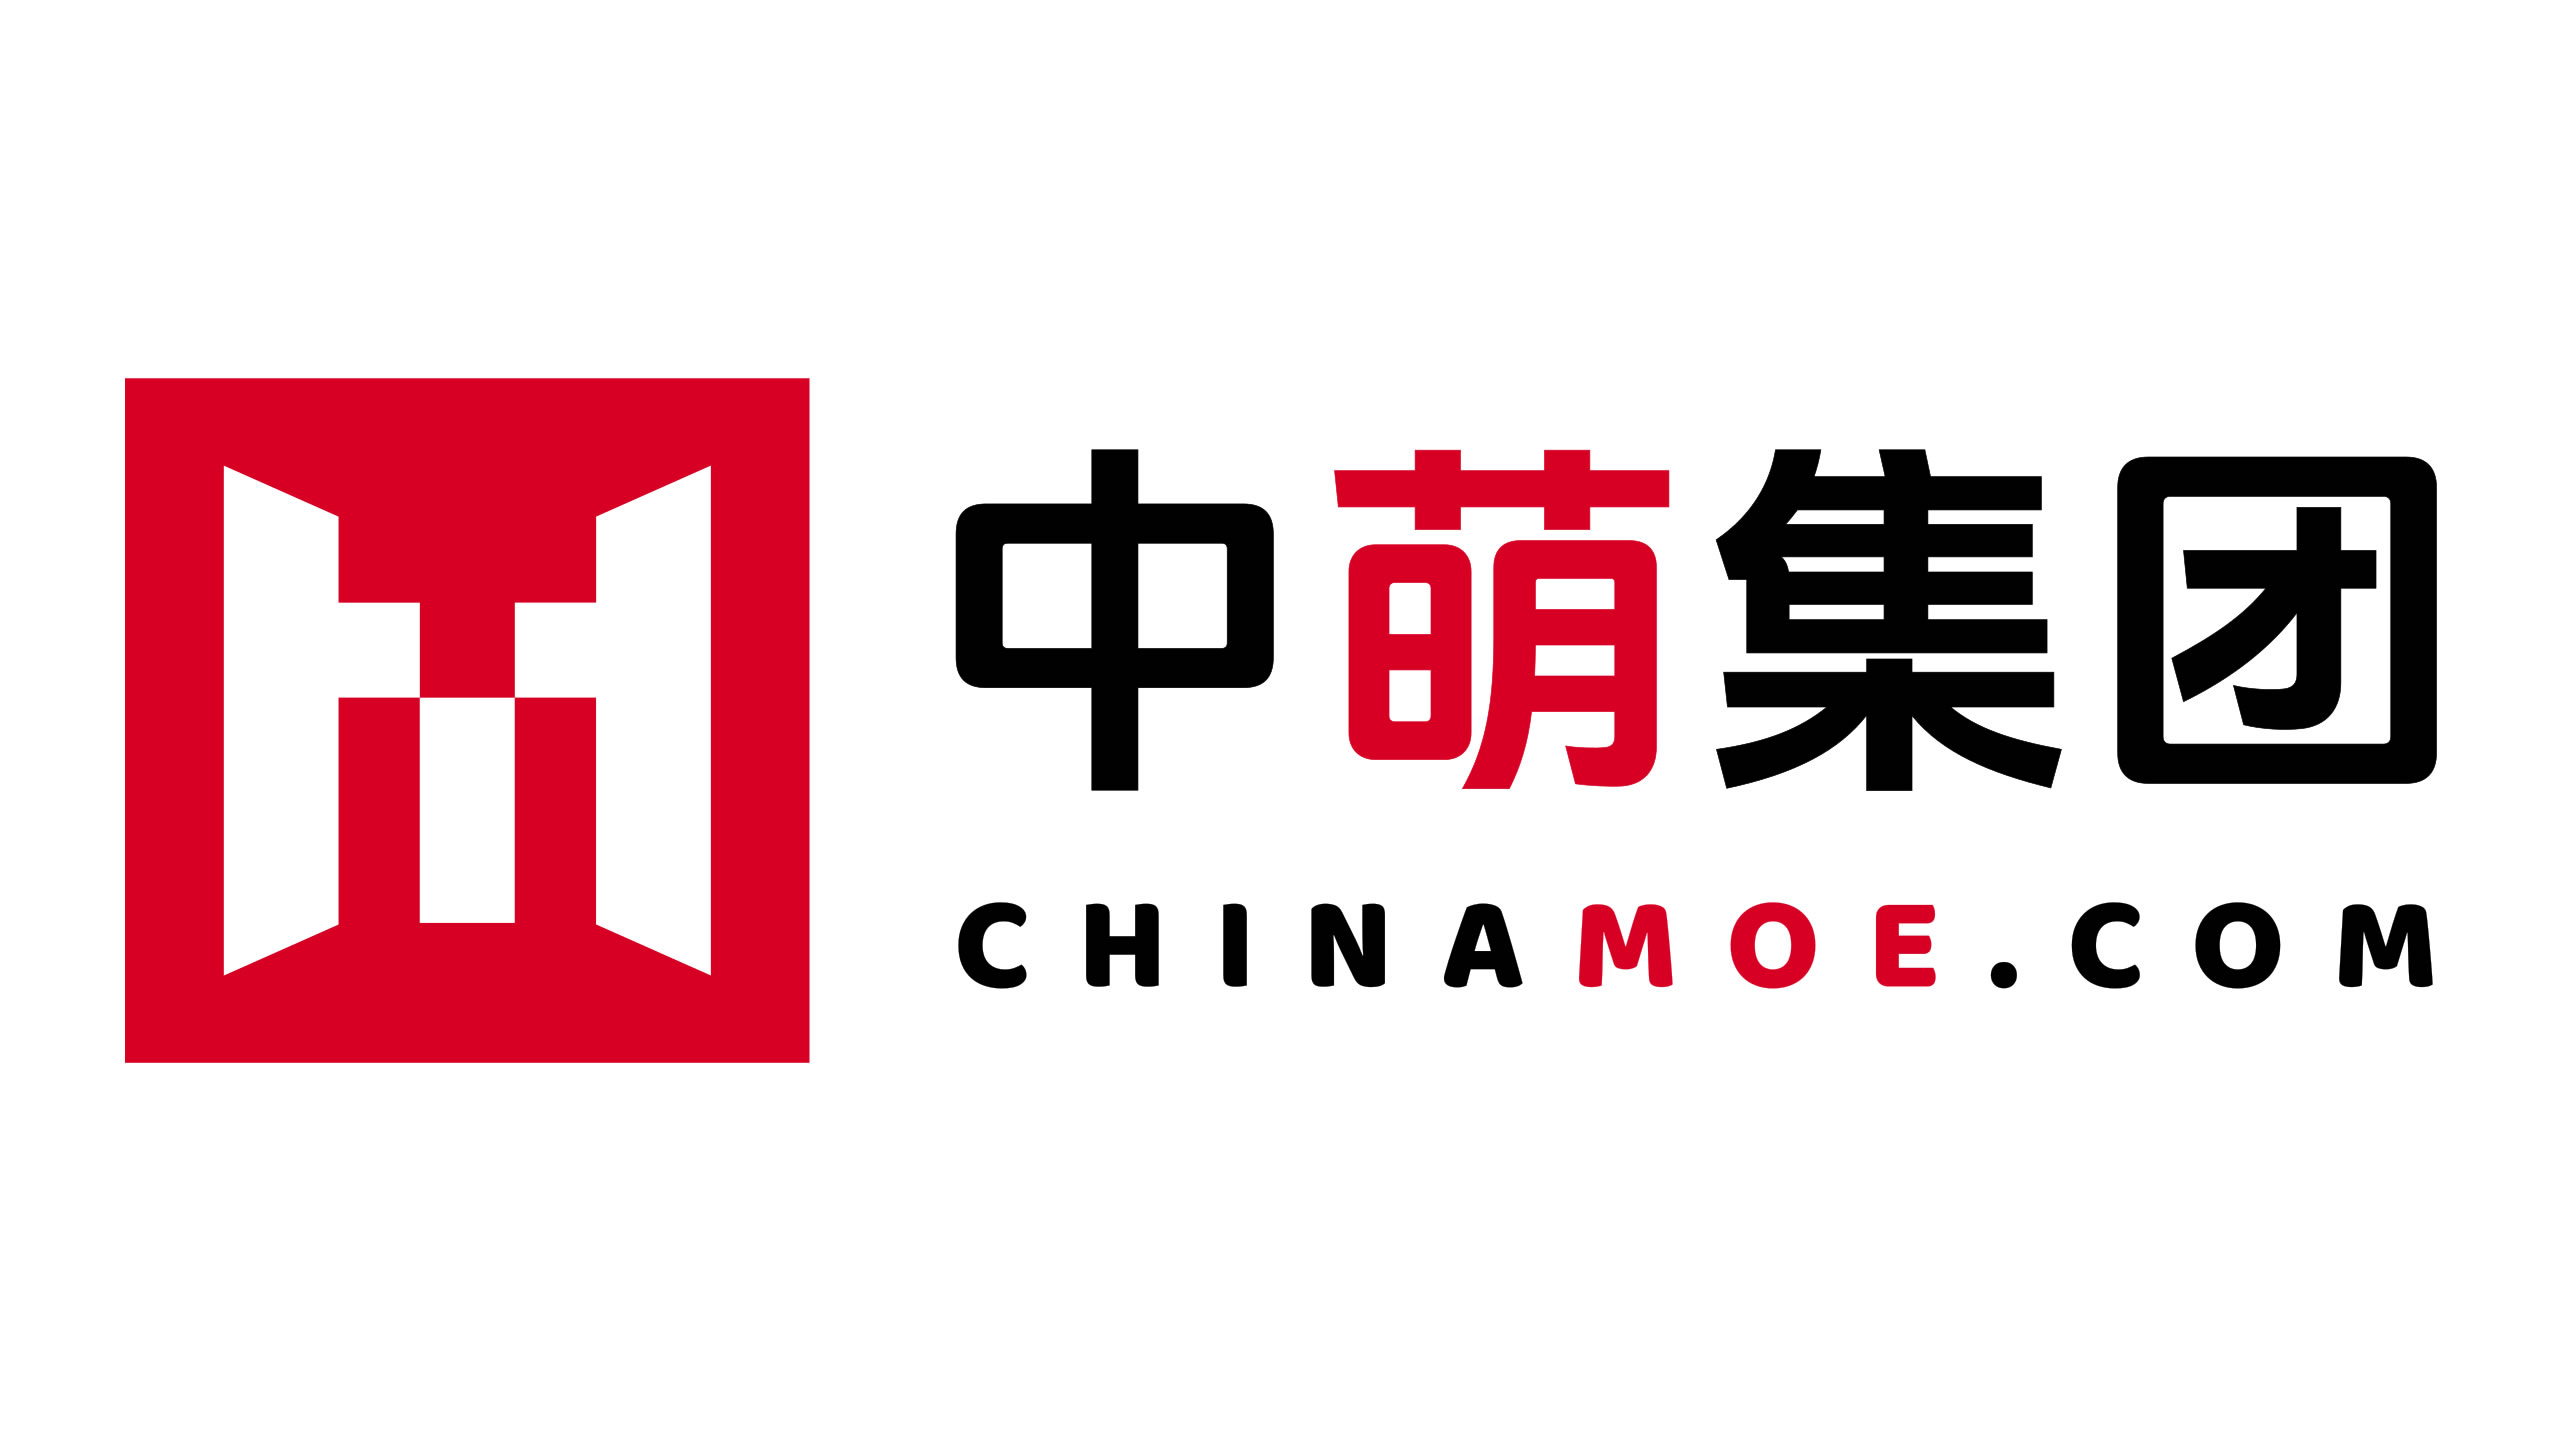
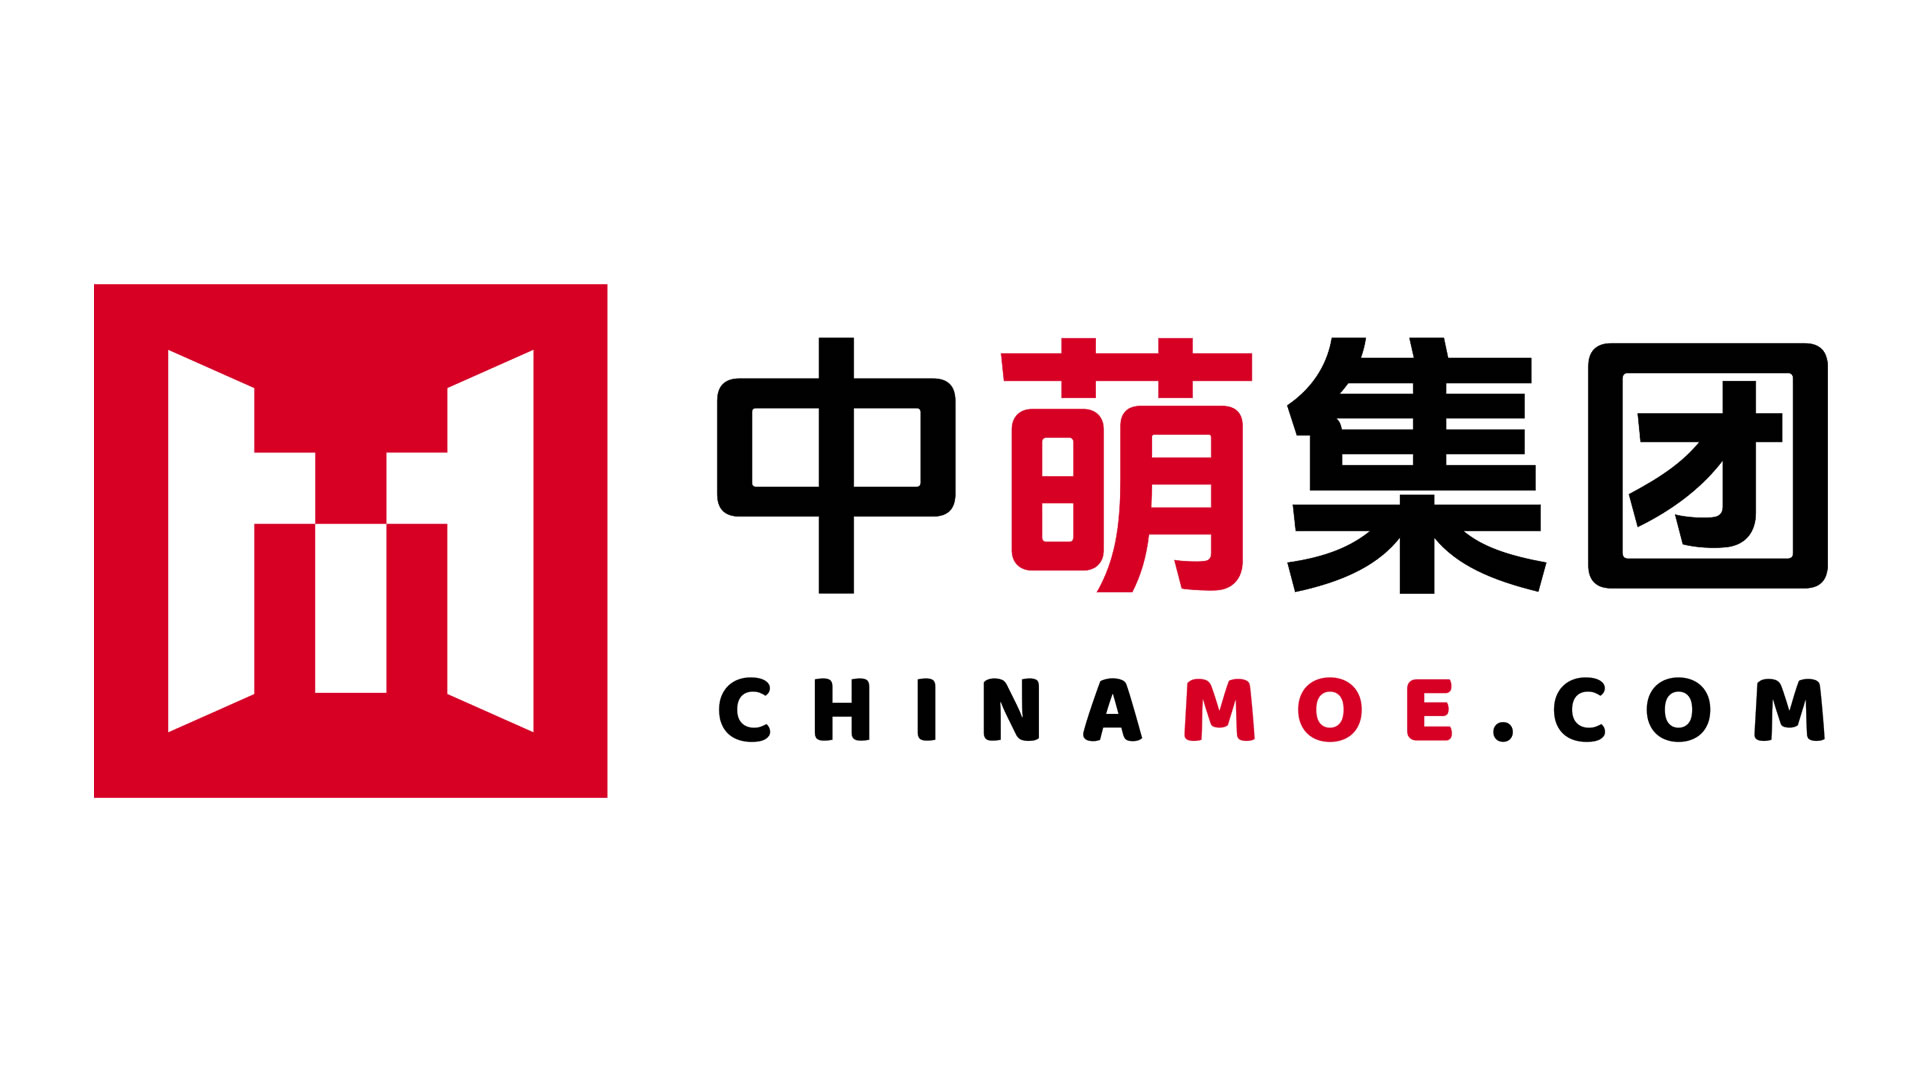
Add files via upload

diff --git a/index.html b/index.html
@@ -1,0 +1,46 @@
+<!DOCTYPE html>
+<html lang="zh-CN">
+<head>
+    <meta charset="UTF-8">
+    <meta name="viewport" content="width=device-width, initial-scale=1.0">
+    <title>中萌集团·China Moe</title>
+    <style>
+        /* 全局样式 */
+        body, html {
+            margin: 0;
+            padding: 0;
+            height: 100%;
+            display: flex;
+            justify-content: center;
+            align-items: center;
+            background-color: #f0f0f0;
+            font-family: Arial, sans-serif;
+        }
+
+        /* 图片容器 */
+        .image-container {
+            text-align: center;
+        }
+
+        /* 图片样式 */
+        .image-container img {
+            max-width: 100%;
+            height: auto;
+            border-radius: 10px;
+            box-shadow: 0 4px 8px rgba(0, 0, 0, 0.2);
+        }
+
+        /* 响应式设计 */
+        @media (max-width: 600px) {
+            .image-container img {
+                max-width: 90%;
+            }
+        }
+    </style>
+</head>
+<body>
+    <div class="image-container">
+        <img src="index.jpg" alt="示例图片">
+    </div>
+</body>
+</html>
